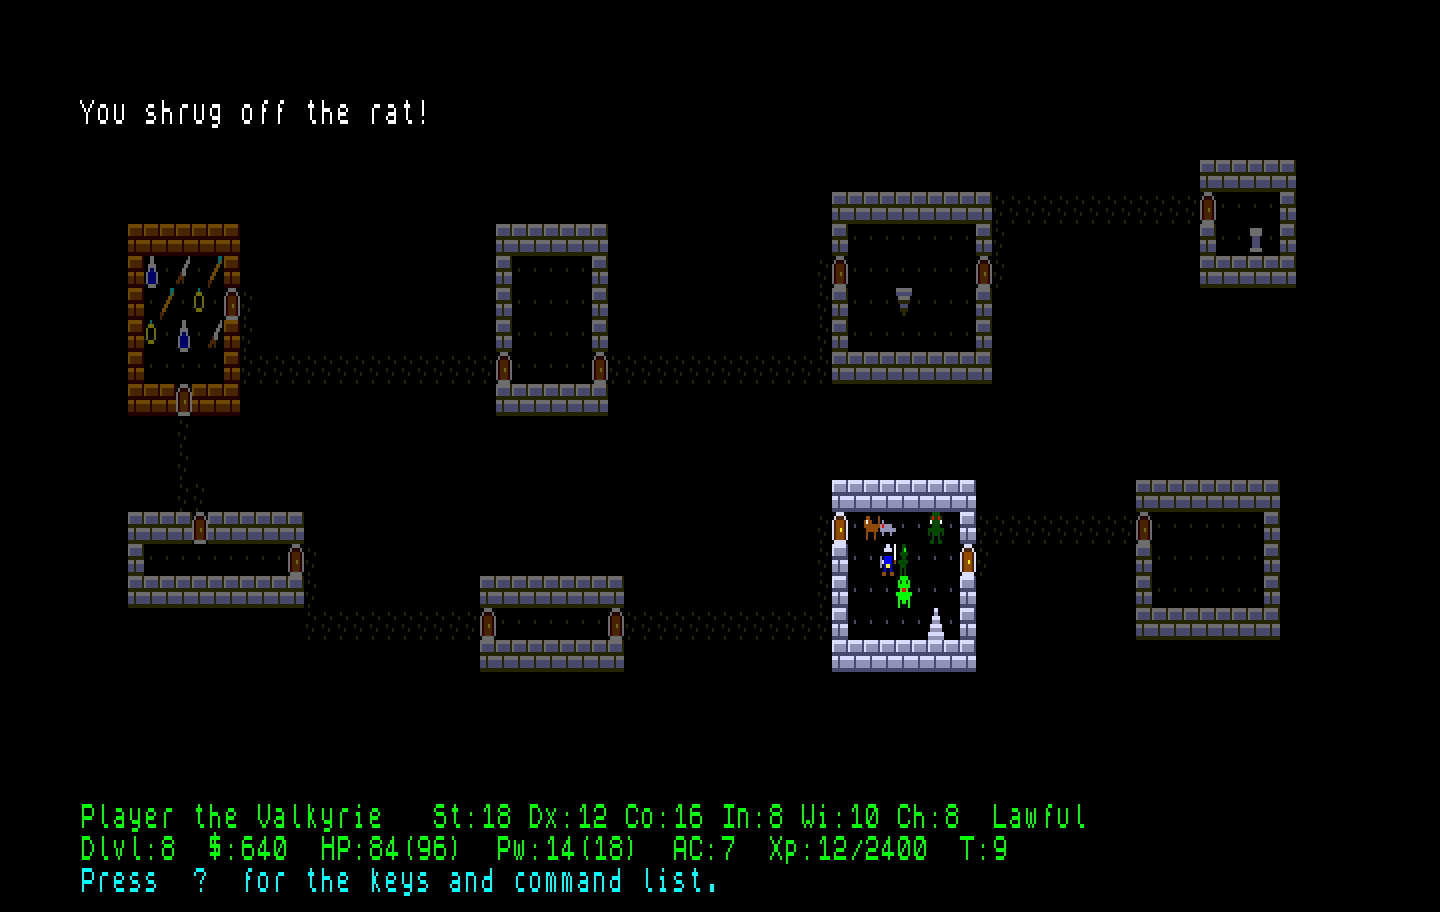
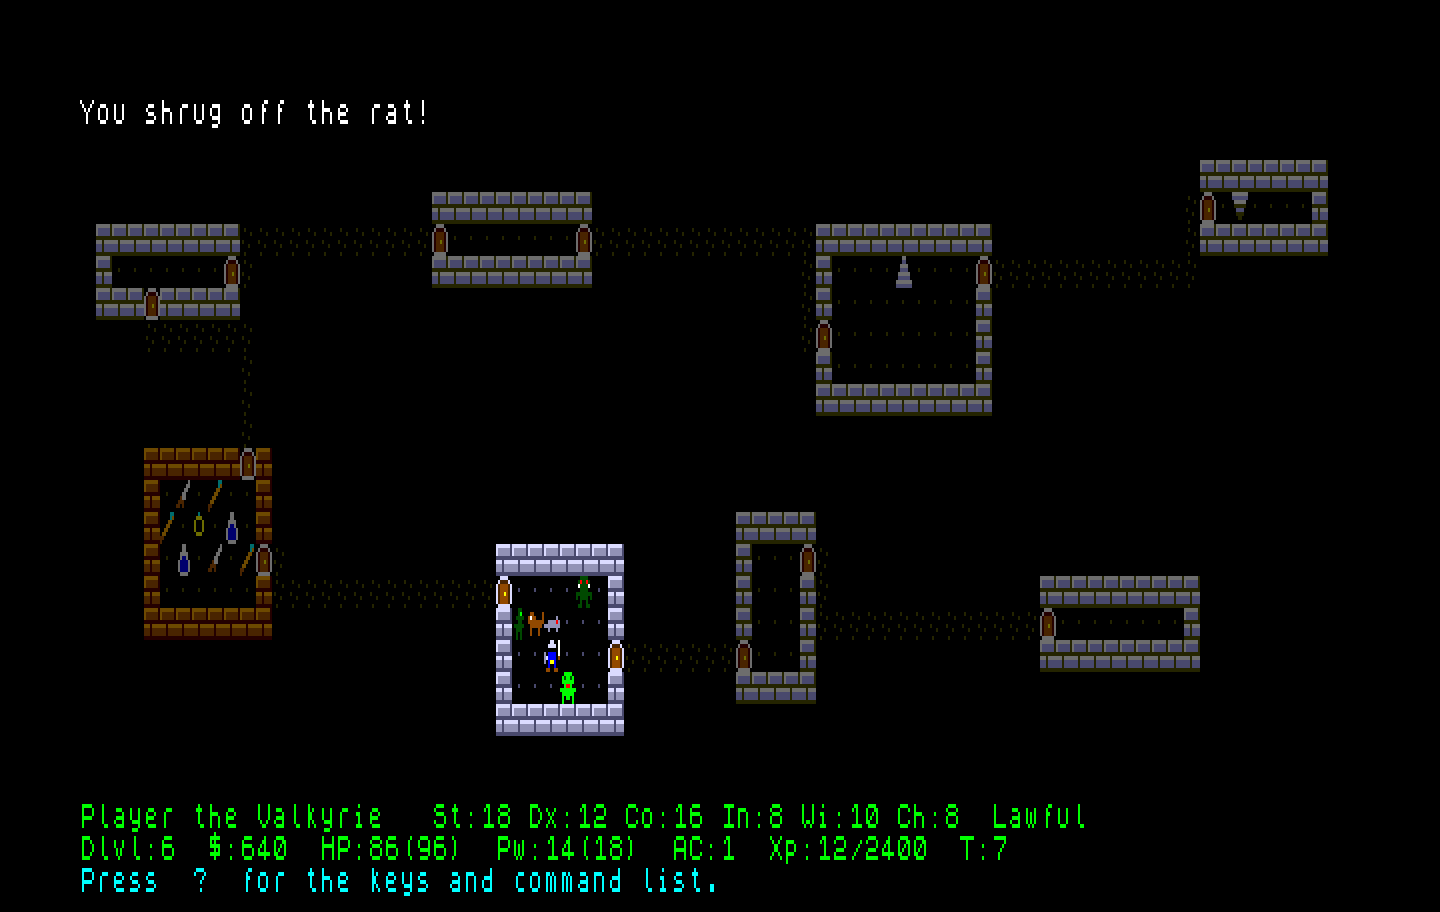
1.3.1: an incompatible save is named before it is deleted, and fresh shots
A save from another version used to be removed without a word. You started
the game, saw a fresh dungeon, and only then worked out that a run was gone
-- which 1.3.0 did to everyone, since it was the first save break since the
1.0 freeze. load_game now says what the file is and asks.

Answering n leaves the file alone. The save is the player's, not ours: if
they still have the older binary it is still there for it, so refusing costs
nothing and the game simply starts a new run over the top. Declining is not
resuming -- main() goes on to pick_class as usual.

Also fixes a defect of the same family as the rest of the 1.3 batch: a worn
amulet had no inventory label. Wielded weapons, worn armour and rings on the
hand all say so; '"' fell through to the empty string, because before 1.3 the
only amulet in the game was Yendor's, which is never worn. It reads
"(on neck)" now.

README screenshots retaken. The inventory one carries the release: the armour
set worn piece by piece, the amulet on the neck, AC:1 on the status bar.

Verified on both targets: the prompt renders (80 columns on the Next, folded
to 32 on the ULA), n leaves the file on disk, y removes it.

diff --git a/src/nexthack.c b/src/nexthack.c
@@ -196,7 +196,35 @@ int load_game(void) __banked
     file_read(h, &hdr, sizeof hdr);
     if (hdr.magic != SAVE_MAGIC || hdr.ver != SAVE_VER) {
         file_close(h);
-        file_remove(SAVE_NAME);     /* discard an incompatible save */
+        /* A save from another version used to be deleted without a word --
+         * you started the game, saw a fresh dungeon, and only then worked out
+         * that a run was gone. Say what it is and ask, because the file is the
+         * player's, not ours: answer n and it is left alone, so going back to
+         * the older binary still finds it. */
+        tm_cls();
+#ifdef __ZXNEXT
+        print_str(20,  9, "This saved game is from another", C_WHITE | C_BRIGHT);
+        print_str(20, 10, "version and cannot be loaded.",   C_WHITE | C_BRIGHT);
+        print_str(20, 12, "Delete it and start fresh?  y/n", C_YELLOW | C_BRIGHT);
+        print_str(20, 14, "n keeps the file for the older", C_CYAN | C_BRIGHT);
+        print_str(20, 15, "version you saved it with.",     C_CYAN | C_BRIGHT);
+#else
+        print_str(1,  6, "This saved game is from",      C_WHITE | C_BRIGHT);
+        print_str(1,  7, "another version and cannot",   C_WHITE | C_BRIGHT);
+        print_str(1,  8, "be loaded.",                   C_WHITE | C_BRIGHT);
+        print_str(1, 10, "Delete it and start fresh?",   C_YELLOW | C_BRIGHT);
+        print_str(1, 11, "y / n",                        C_YELLOW | C_BRIGHT);
+        print_str(1, 13, "n keeps it for the version",   C_CYAN | C_BRIGHT);
+        print_str(1, 14, "that wrote it.",               C_CYAN | C_BRIGHT);
+#endif
+        in_wait_nokey();
+        {   int k;
+            do { k = getkey(); } while (k != 'y' && k != 'Y' &&
+                                        k != 'n' && k != 'N');
+            in_wait_nokey();
+            if (k == 'y' || k == 'Y') file_remove(SAVE_NAME);
+        }
+        map_dirty = 1;              /* the prompt drew over the playfield */
         return 0;
     }
 

diff --git a/src/item.c b/src/item.c
@@ -988,7 +988,8 @@ void do_drop(void) __banked
         if (inv[i].worn) {                /* mark what you're currently using */
             const char *w = (cls == ')') ? " (wielded)" :
                             (cls == '[') ? " (worn)"    :
-                            (cls == '=') ? " (on hand)" : "";
+                            (cls == '=') ? " (on hand)" :
+                            (cls == '"') ? " (on neck)" : "";
             print_str(x, r2, w, C_CYAN | C_BRIGHT);
         }
     }
@@ -1107,7 +1108,8 @@ void show_inventory(void) __banked
             if (inv[i].worn) {
                 const char *w = (cls == ')') ? " (wielded)" :
                                 (cls == '[') ? " (worn)"    :
-                                (cls == '=') ? " (on hand)" : "";
+                                (cls == '=') ? " (on hand)" :
+                            (cls == '"') ? " (on neck)" : "";
                 print_str(x, row, w, C_CYAN | C_BRIGHT);
             }
         }

diff --git a/README.md b/README.md
@@ -132,7 +132,7 @@ RAM-expansion interface, which is how many people actually have 128 KB.
 
 ![NextHack gameplay: a magically mapped dungeon level drawn in colour 8×8 tiles — rooms and corridors across the level, a stocked shop with warm brick walls, the armoured hero and his dog facing monsters in a lit room, and the full status bar below.](docs/gameplay.png)
 
-*Dlvl 8 after a scroll of magic mapping — rooms light up on entry, corridors reveal as you go, a shop trades in the corner, and monsters find you anyway. The rat at the hero's elbow just bounced off his dragon scale: armour turns a blow aside, it no longer erases it. The status bar carries the whole character sheet, alignment included.*
+*Dlvl 6 after a scroll of magic mapping — rooms light up on entry, corridors reveal as you go, a shop trades in the corner, and monsters find you anyway. The rat at the hero's elbow just bounced off his dragon scale: armour turns a blow aside, it no longer erases it. The status bar carries the whole character sheet, alignment included.*
 
 ![The Gnomish Mines: cobblestone chambers and winding tunnels revealed, Minetown's warm-brick shop stocked with wares, and the hero and his dog meeting a monster in a lit chamber, with the status bar reading Mine:2.](docs/mines.png)
 
@@ -306,9 +306,9 @@ used to emit one and no longer does.
 
 Walk into a monster to attack it; walk over gold to pick it up.
 
-![The NextHack inventory screen: a blessed +2 long sword (wielded), +1 dragon scale (worn), an unidentified scroll and potion, the ring of regeneration (on hand), the luckstone, a food ration and a charged wand of cold.](docs/inventory.png)
+![The NextHack inventory screen: a blessed +2 long sword (wielded) above a full armour set — +1 dragon scale, large shield, +1 helmet, boots and cloak, all worn — with the amulet of life on the neck, the ring of regeneration on the hand, the luckstone, a food ration, a charged wand of cold and an unidentified potion and scroll.](docs/inventory.png)
 
-*The inventory screen (`i`): enchantment, blessed/cursed state, unidentified appearances, wand charges — the worn and wielded pieces flagged.*
+*The inventory screen (`i`): a whole armour set worn a piece at a time, enchantment, blessed/cursed state, unidentified appearances and wand charges — everything in use is flagged, down to what is round your neck.*
 
 ## Map & item tiles
 

diff --git a/CHANGELOG.md b/CHANGELOG.md
@@ -8,6 +8,26 @@ Every release ships two binaries — `nexthack.nex` (ZX Spectrum Next) and
 `nexthack128.tap` (ZX Spectrum 128K) — on the
 [Releases](https://github.com/lrrosa/nexthack/releases) page.
 
+## [1.3.1] — 2026-09-03
+
+### Added
+- **An incompatible save is now named, and you decide.** A save from another
+  version used to be deleted without a word: you started the game, saw a fresh
+  dungeon, and only then worked out that a run was gone. The game now says what
+  the file is and asks. Answer **n** and it is left alone — if you still have
+  the older binary, your save is still there for it.
+
+### Changed
+- Fresh README screenshots. The inventory one carries the release: a full
+  armour set worn piece by piece, an amulet round the neck, and `AC:1`.
+
+### Fixed
+- **A worn amulet is now labelled `(on neck)` in the inventory.** Wielded
+  weapons, worn armour and rings on the hand all say so; amulets fell through
+  to no label at all, because before 1.3 the only `"` in the game was the
+  Amulet of Yendor, which is never worn. Same shape as the rest of that
+  batch's defects: a condition that was right until the world grew.
+
 ## [1.3.0] — 2026-09-02
 
 **Four steps toward NetHack, and three passes of looking for what they broke.**
